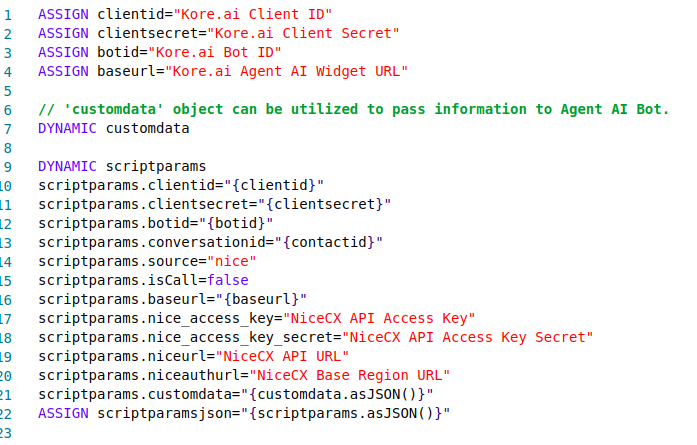
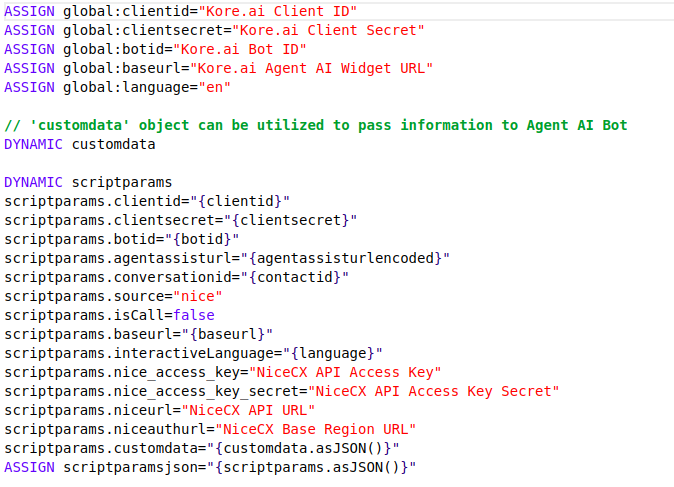
integ doc update based on 3.8.0 release

Changed region(s): [[0.0, 0.2337, 0.9659, 0.9933], [0.0, 0.0, 0.6231, 0.2045]]

diff --git a/docs/xo/agentai/integration/nice-max/nice-max-desktop-chat-and-voice.md b/docs/xo/agentai/integration/nice-max/nice-max-desktop-chat-and-voice.md
@@ -180,9 +180,8 @@ This section explains the configuration steps needed to integrate Kore Agent AI 
 1. [NICE CX Integration Hubs, Add Agent Assist Hub](#nice-cx-integration-hubs-add-agent-assist-hub)
 2. [NICE CX Studio, Import Chat and Voice Scripts and Configure Parameters](#nice-cx-studio-import-chat-voice-scripts-and-configure-parameters)
 3. [NICE CX Setup, Attach Point of Contact with Chat/Voice Script](#nice-cx-setup-attach-point-of-contact-with-chatvoice-script)
-4. [Access Data in Agent AI Bot](#access-custom-data-in-agent-ai-bot)
-5. [Chat Simulation](#chat-simulation)
-6. [Voice Simulation](#voice-simulation)
+4. [Chat Simulation](#chat-simulation)
+5. [Voice Simulation](#voice-simulation)
 
 ## Nice CX Integration Hubs > Add Agent Assist Hub
 
@@ -196,12 +195,12 @@ This section explains the configuration steps needed to integrate Kore Agent AI 
 4. Click **Agent Assist Hub** > **Add Agent Assist App**.  
 <img src="../nice-max-images/add-agent-assist-app-3.png" alt="add-agent-assist-app" title="add-agent-assist-app" style="border: 1px solid gray; zoom:80%;">
 
-1. Enter the name of the **Agent Assist App** in the **AGENT ASSIST APP NAME** field.
-2. Select **Custom Agent Assist Endpoints**.
-3. Click **Next**.  
+5. Enter the name of the **Agent Assist App** in the **AGENT ASSIST APP NAME** field.
+6. Select **Custom Agent Assist Endpoints**.
+7. Click **Next**.  
 <img src="../nice-max-images/custom-agent-assist-endpoint-4.png" alt="custom-agent-assist-endpoint" title="custom-agent-assist-endpoint" style="border: 1px solid gray; zoom:80%;">
 
-4. Add the following settings with config parameters:
+8. Add the following settings with config parameters:
     1. Agent UI Option: Available by default 
     2. App URL: {<a href="#adn">Agent AI URL</a>}/integrations/nice/iframe/?params={scriptparams}
     3. App Title: Kore Agent AI (change as needed)
@@ -220,7 +219,9 @@ This section explains the configuration steps needed to integrate Kore Agent AI 
             * Payload: {“appId”: &lt;Bot Client ID>}
             * Header: {“alg”: “HS256″,”typ”: “JWT”}
             * Secret: Bot Client Secret.
-1. Scroll down and add the following Configuration Parameters. (only for chat)  
+9. Scroll down and add the following Configuration Parameters. (Only for chat.)  
+!!! note
+    If the language parameter is not provided, English (en) is used as the default. Refer to this [doc](https://docs.kore.ai/agentassist/set-up-agentassist/supported-languages/){:target="_blank"} to obtain the language code corresponding to your bot’s language.  
 <img src="../nice-max-images/configuration-parameters-8.png" alt="configuration-parameters" title="configuration-parameters" style="border: 1px solid gray; zoom:80%;">
 
 2. Click **Create**.
@@ -242,7 +243,8 @@ This section explains the configuration steps needed to integrate Kore Agent AI 
         2. Bot Client Secret
         3. Bot ID
         4. Agent AI Widget URL
-    2. Custom Data: The “customdata” object in the script can be used to pass information to the Agent AI Bot. During runtime, this customdata will be accessible in the UserContext of the bot. Refer to [Access Custom Data in Agent AI Bot](#access-custom-data-in-agent-ai-bot) for instructions on how to access customdata in the bot. 
+        5. Bot Language Code - “en” is set as the default language. Refer to this [doc](https://docs.kore.ai/agentassist/set-up-agentassist/supported-languages/){:target="_blank"} to provide the language code for your bot's language.
+    2. Custom Data: The “customdata” object in the script can be used to pass information to the Agent AI Bot. During runtime, this customdata will be accessible in the UserContext of the bot. Refer to [Access Custom Data in Agent AI Bot](https://docs.kore.ai/agentassist/set-up-agentassist/access-custom-data-in-agent-ai-bot/){:target="_blank"} for instructions on how to access customdata in the bot. 
  
         Include your data in the customdata object (one key-value pair per line). For example: 
 
@@ -283,28 +285,6 @@ This section explains the configuration steps needed to integrate Kore Agent AI 
 8. Click **Done** to save it.  
 !!! note
     To view the summary pop-up in the Agent AI widget, you must assign a disposition to the skill. If you don’t, the chat/voice screen automatically closes once the session ends.
-
-## Access Custom Data in Agent AI Bot
-
-You can access Custom Data in **Welcome Events** in **Agent AI configuration** page and in **Dialog Tasks** in **Agent AI automation** page.
-
-Custom Data can be accessed as
-
-```
-{{context.session.UserContext.customData.<key>}}
-```
-
-**Welcome Events:**  
-<img src="../nice-max-images/welcome-events-14.png" alt="free text" title="free text" style="border: 1px solid gray; zoom:80%;">
-
-**Dialog Tasks:**
-
-In the **Dialog Task**, open a **Message** node, and click **MANAGE RESPONSES**.  
-<img src="../nice-max-images/manage-responses-15.png" alt="manage-responses" title="manage-responses" style="border: 1px solid gray; zoom:80%;">  
-
-<img src="../nice-max-images/plain-responses-16.png" alt="plain-responses" title="plain-responses" style="border: 1px solid gray; zoom:80%;">
-
-<img src="../nice-max-images/java-script-response-17.png" alt="java-script-response" title="java-script-response" style="border: 1px solid gray; zoom:80%;">
 
 ## Chat Simulation
 
